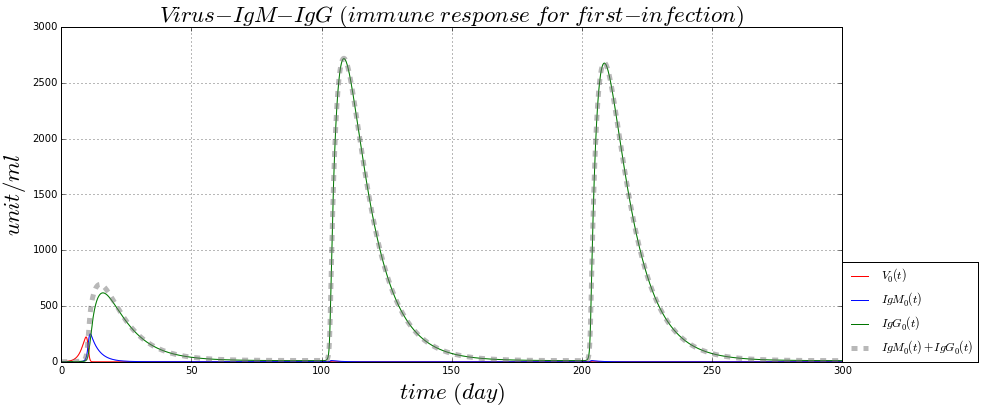
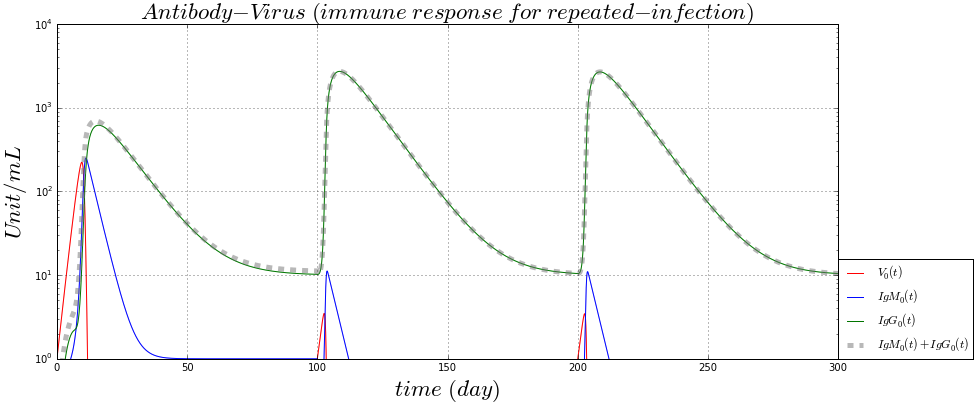
repeated infection

diff --git a/bcell-array/bcell-array.py b/bcell-array/bcell-array.py
@@ -174,13 +174,9 @@ for i in range(1):
     plt.plot(gridT, gridM[i] + gridG[i], color = 'gray', linewidth = 5.0, alpha = 0.5, linestyle = 'dashed'
              , label = r'$ IgM_{%i}(t) + IgG_{%i}(t) $'%(i, i))
     plt.grid(True)
-    plt.title(r'$ Virus-IgM-IgG \ (immune \ response \ for \ first-infection) $', fontsize = AlvaFontSize)
+    plt.title(r'$ Virus-IgM-IgG \ (immune \ response \ for \ repeated-infection) $', fontsize = AlvaFontSize)
     plt.xlabel(r'$time \ (%s)$'%(timeUnit), fontsize = AlvaFontSize);
     plt.ylabel(r'$ unit/ml $', fontsize = AlvaFontSize);
-#    plt.text(maxT, totalV*6.0/6, r'$ V_{max} = %f $'%(totalV), fontsize = AlvaFontSize)
- #   plt.text(maxT, totalV*5.0/6, r'$ \mu_{v} = %f $'%(inRateV), fontsize = AlvaFontSize)
-  #  plt.text(maxT, totalV*4.0/6, r'$ \mu_{vm} = %f $'%(outRateVm), fontsize = AlvaFontSize)
-   # plt.text(maxT, totalV*3.0/6, r'$ \mu_{vg} = %f $'%(outRateVg), fontsize = AlvaFontSize)
     plt.legend(loc = (1,0))
 #    plt.yscale('log')
     plt.show()
